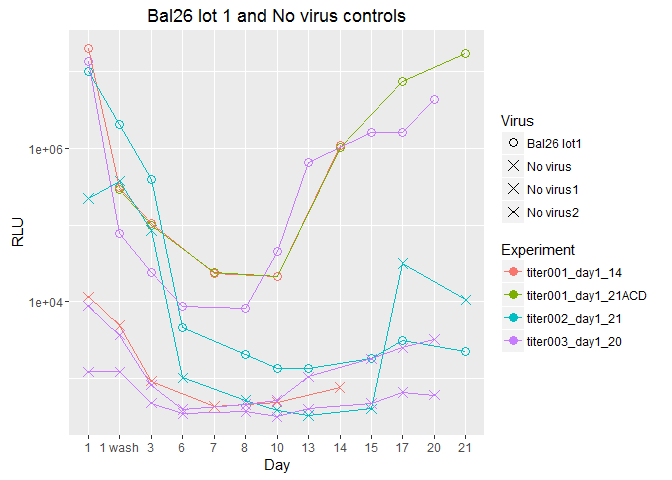
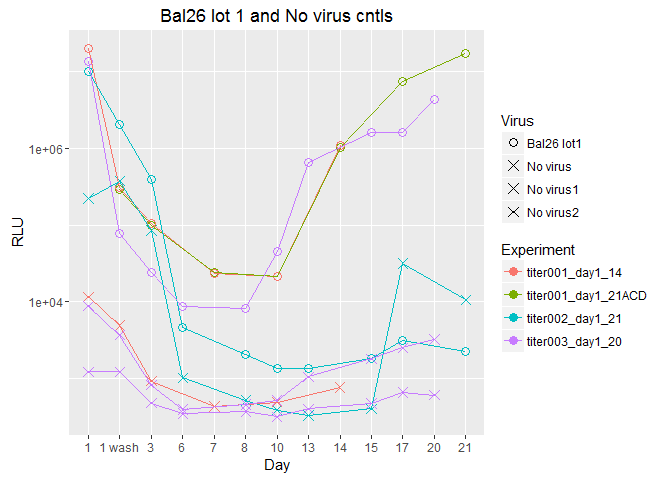
trying to get last plot to show up

Changed region(s): [[0.2188, 0.0, 0.625, 0.0625]]

diff --git a/Plot_gallery.md b/Plot_gallery.md
@@ -109,7 +109,7 @@ ggplot(Bal26, aes(x = Day, y = RLU))+
   geom_line(aes(group = interaction(Experiment,Virus), color = Experiment))+
   scale_y_log10()+
   scale_shape_manual(values = c("Bal26 lot1" = 1, "No virus" = 4, "No virus1" = 4, "No virus2" = 4 ))+
-  ggtitle("Bal26 lot 1 and No virus controls")
+  ggtitle("Bal26 lot 1 and No virus cntls")
 ```
 
 ![](Plot_gallery_files/figure-markdown_github/unnamed-chunk-10-1.png)
